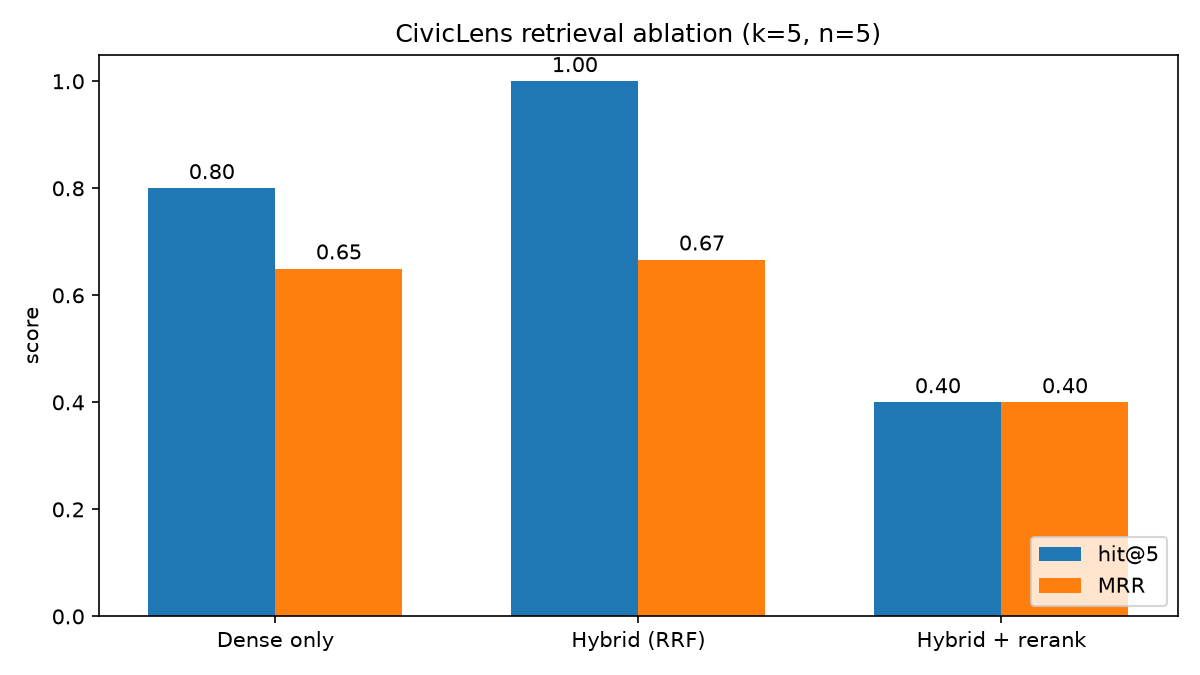
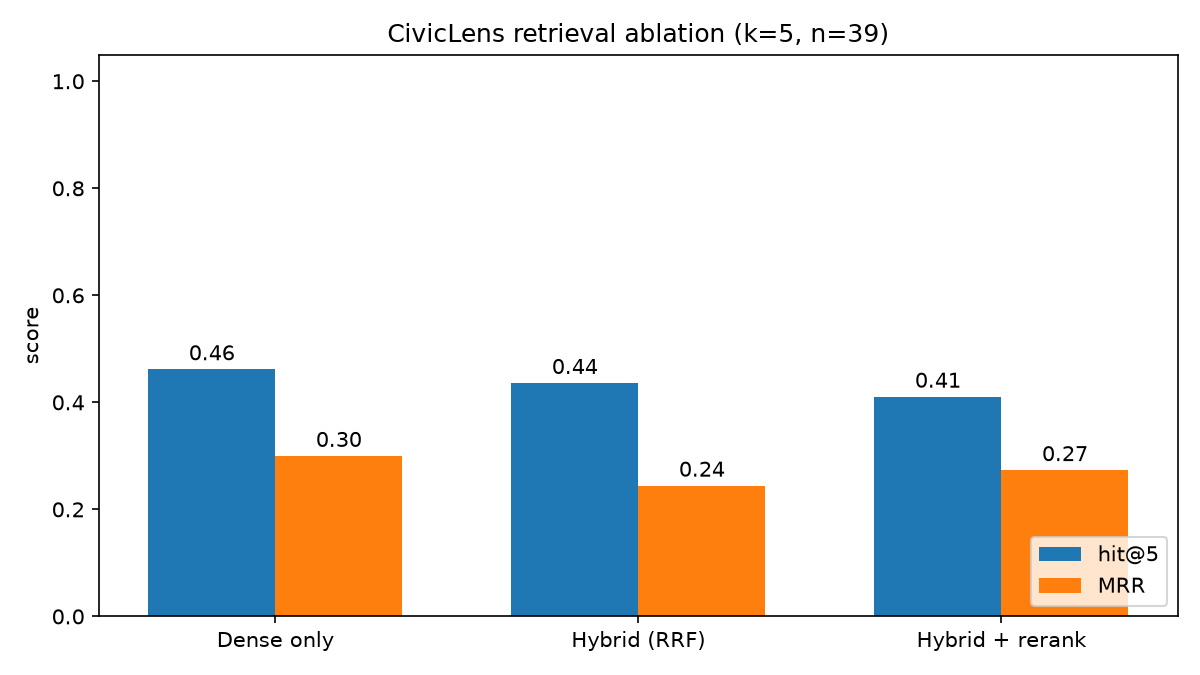
docs: regenerate full-corpus ablation chart (n=39) and sync hybrid MRR numbers
The committed chart was the noisy sample-scope run (n=5); regenerated from the
full validated dataset so the chart matches the cited hit@5/MRR. Hybrid (RRF)
shifted slightly (0.410/0.256 -> 0.436/0.244) after the Phase 8 PII re-ingestion
re-embedded 47 chunks; dense (0.462/0.300) and rerank (0.410/0.273) unchanged.

Changed region(s): [[0.3083, 0.0311, 0.74, 0.7467], [0.1233, 0.2489, 0.3392, 0.6844], [0.74, 0.56, 0.9558, 0.7156]]

diff --git a/README.md b/README.md
@@ -100,13 +100,13 @@ A synthetic-but-validated golden dataset over the real corpus:
 | mode | hit@5 | MRR |
 |---|---|---|
 | Dense only (bge-small-en-v1.5) | **0.462** | **0.300** |
-| Hybrid (RRF dense+keyword) | 0.410 | 0.256 |
+| Hybrid (RRF dense+keyword) | 0.436 | 0.244 |
 | Hybrid + rerank (TinyBERT cross-encoder) | 0.410 | 0.273 |
 
 The honest finding: **on this small corpus, strong dense embeddings win top-5 outright**;
 naive RRF fusion with a relaxed keyword fallback dilutes the candidate pool on long
 questions, and a 4MB reranker recovers most (not all) of the ordering loss within the
-pool (MRR 0.256 → 0.273). Hybrid's value shows on short keyword-style queries
+pool (MRR 0.244 → 0.273). Hybrid's value shows on short keyword-style queries
 ("consent agenda") — covered by the sanity tests — rather than on long generated
 questions. With the spec-scale profile (bge-m3 + bge-reranker-base) the ordering may
 flip; the harness makes re-measuring a one-liner.

diff --git a/docs/DECISIONS.md b/docs/DECISIONS.md
@@ -79,7 +79,7 @@ places, which is statistically impossible. Tracing it exposed:
   fail silently.
 
 Post-fix, the honest result on this corpus: dense-only wins hit@5 (0.462 vs 0.410);
-reranking recovers most of the fused pool's ordering loss (MRR 0.256 → 0.273). Strong
+reranking recovers most of the fused pool's ordering loss (MRR 0.244 → 0.273). Strong
 dense embeddings on a small corpus beat naive fusion on long natural-language
 questions; hybrid's value concentrates on short keyword-style queries. The harness
 makes re-measuring under bigger models a one-line config change.